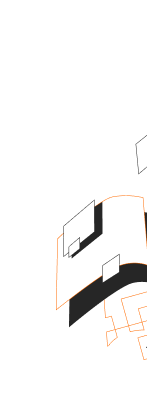
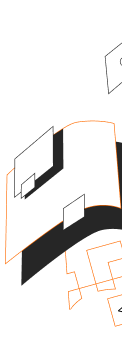
Update mobile illustration in index.html file

diff --git a/index.html b/index.html
@@ -45,6 +45,15 @@
       </nav>
     </header>
     <section class="page-section headline-section">
+      <div class="content-text primary-text">
+        Hey There. I’m Gabriela
+      </div>
+      <div class="content-text supporting-text">
+        I'm a Software Developer
+      </div>
+      <div class="content-text description-text">
+        I can help you build a product, feature or website Look through some of my work and experience! If you like what you see and have a project you need coded, don’t hestiate to contact me.
+      </div>
       <ul class="social-media-icons">
         <li class="social-media-icon">
           <a href="#">
@@ -72,19 +81,8 @@
           </a>
         </li>
       </ul>
-      <div class="headline">
-        <div class="primary-text">
-          Hey There. I’m Alex
-        </div>
-        <div class="supporting-text">
-          I'm a Software Developer
-        </div>
-        <div class="description">
-          I can help you build a product, feature or website Look through some of my work and experience! If you like what you see and have a project you need coded, don’t hestiate to contact me.
-        </div>
-      </div>
       <div class="illustration-header">
-        <img src="images/illustration-header.png" alt="Illustration header.">
+        <img src="images/illustration-header-mobile.png" alt="Illustration header.">
       </div>
     </section>
   </body>
